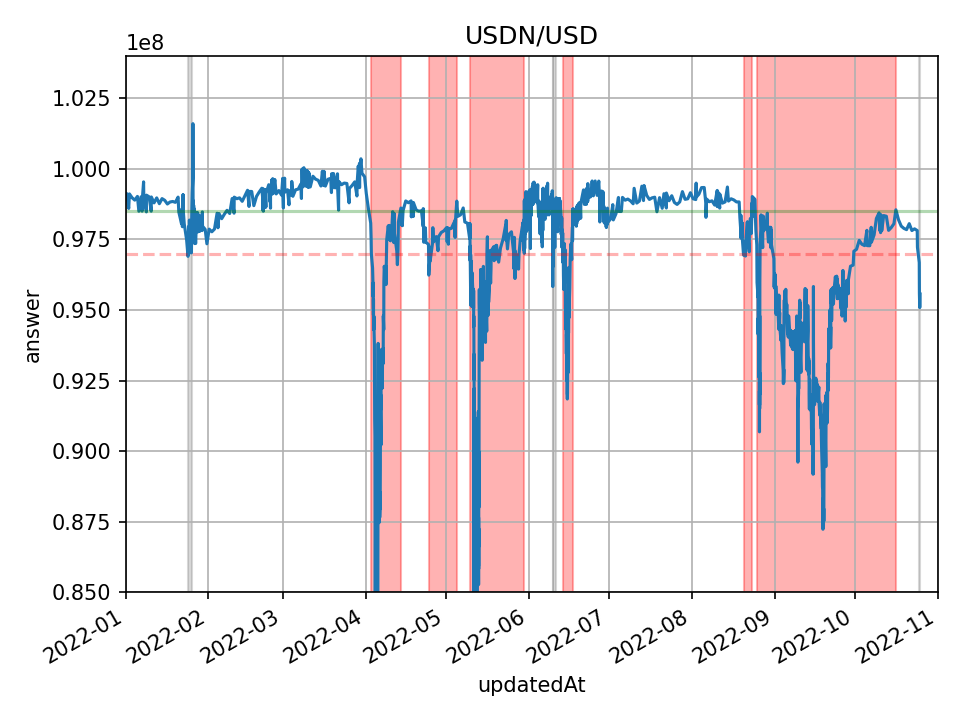
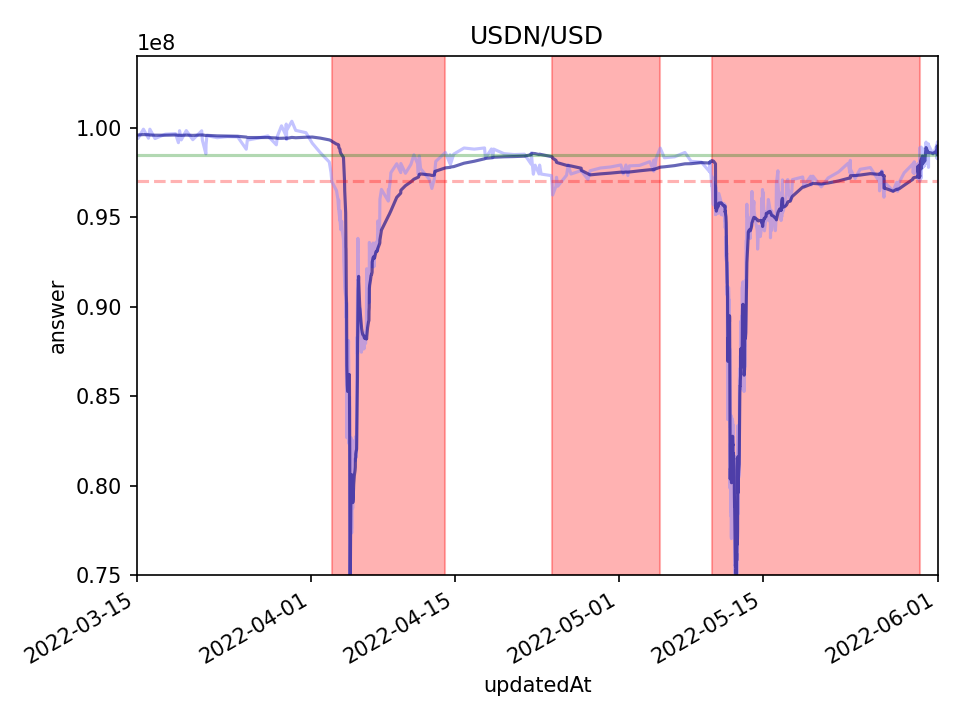
add twap to depeg plot

diff --git a/scripts/analyze_feed.py b/scripts/analyze_feed.py
@@ -24,6 +24,16 @@ def duration2str(seconds:int) -> str:
     return "{}d {}:{}:{}".format(days, remainingHours, remainingMinutes, remainingSeconds)
 
 
+def twap(tpArray, tArray) -> int:
+    (tpSum, tSum) = (0, 0)
+
+    for i in range(len(tpArray)):
+        tpSum += tpArray[i]
+        tSum += tArray[i]
+    
+    return int(tpSum / tSum)
+
+
 # https://stackoverflow.com/questions/59286254/export-time-series-plot
 # https://matplotlib.org/stable/tutorials/introductory/pyplot.html
 def main() -> int:
@@ -39,6 +49,8 @@ def main() -> int:
     args = parser.parse_args()
 
     feed = pd.read_csv(args.csv)
+    feed['twap'] = 0
+
     feedSorted = feed.sort_values('roundId')
 
     triggerValue = int(args.triggerValue * 10 ** args.decimals)
@@ -52,6 +64,11 @@ def main() -> int:
     triggeredAt = 0
     triggerTicks = 0
     lastUpdatedAt = 0
+
+    n = 20
+    tpArray = [0] * n
+    tArray = [0] * n
+    i = 0
 
     for row in feedSorted.index:
         data = feedSorted.loc[row]
@@ -80,16 +97,29 @@ def main() -> int:
                 print("RECOVER ------- {} ticks {} roundId {} answer {} dateTimeAt {}".format(duration2str(duration), triggerTicks, roundId, answer, dateTimeAt))
                 triggeredAt = 0
         
+        timeDelta = updatedAt - lastUpdatedAt
+        tpArray[i % n] = timeDelta * answer
+        tArray[i % n] = timeDelta
+
+        if i > n:
+            feed.at[i, 'twap'] = twap(tpArray, tArray)
+        
         lastUpdatedAt = updatedAt
+        i += 1
     
     if triggeredAt > 0:
         depegs.append((triggeredAt, lastUpdatedAt))
-    
+
+    # debug print for twap
+    print(feed.head(20))
+
+    # plot time series and stuff
     feed['dateTime'] = feed['dateTimeAt'].apply(pd.to_datetime)
     feed.set_index('dateTime',inplace=True)
     
-    ax = feed['answer'].plot(grid=True)
-    ax.set_xlim(pd.Timestamp('2022-01-01'), pd.Timestamp('2022-11-01'))
+    feed['answer'].plot(color='#8888ff', alpha=0.5, grid=True)
+    ax = feed['twap'].plot(color='#000088', alpha=0.6)
+    ax.set_xlim(pd.Timestamp('2022-03-15'), pd.Timestamp('2022-06-01'))
     ax.set_ylim(int(args.plotMinValue * 100000000), 104000000)
 
     # draw trigger and min value lines
